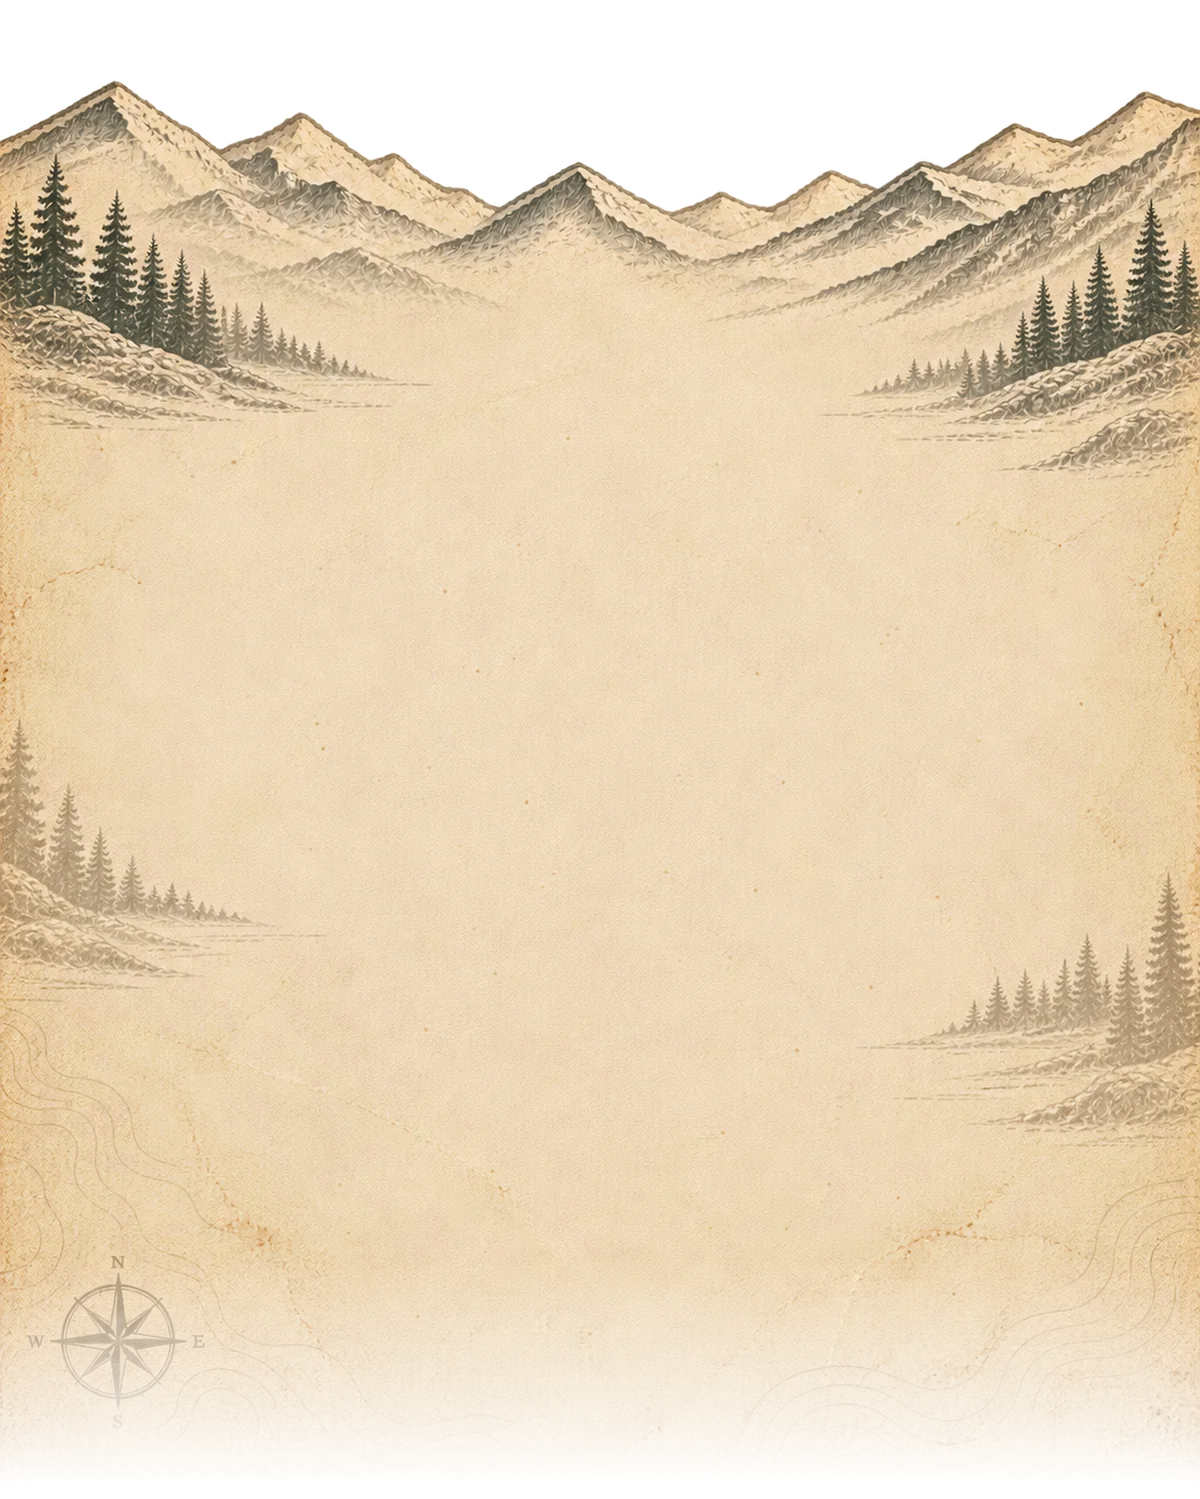
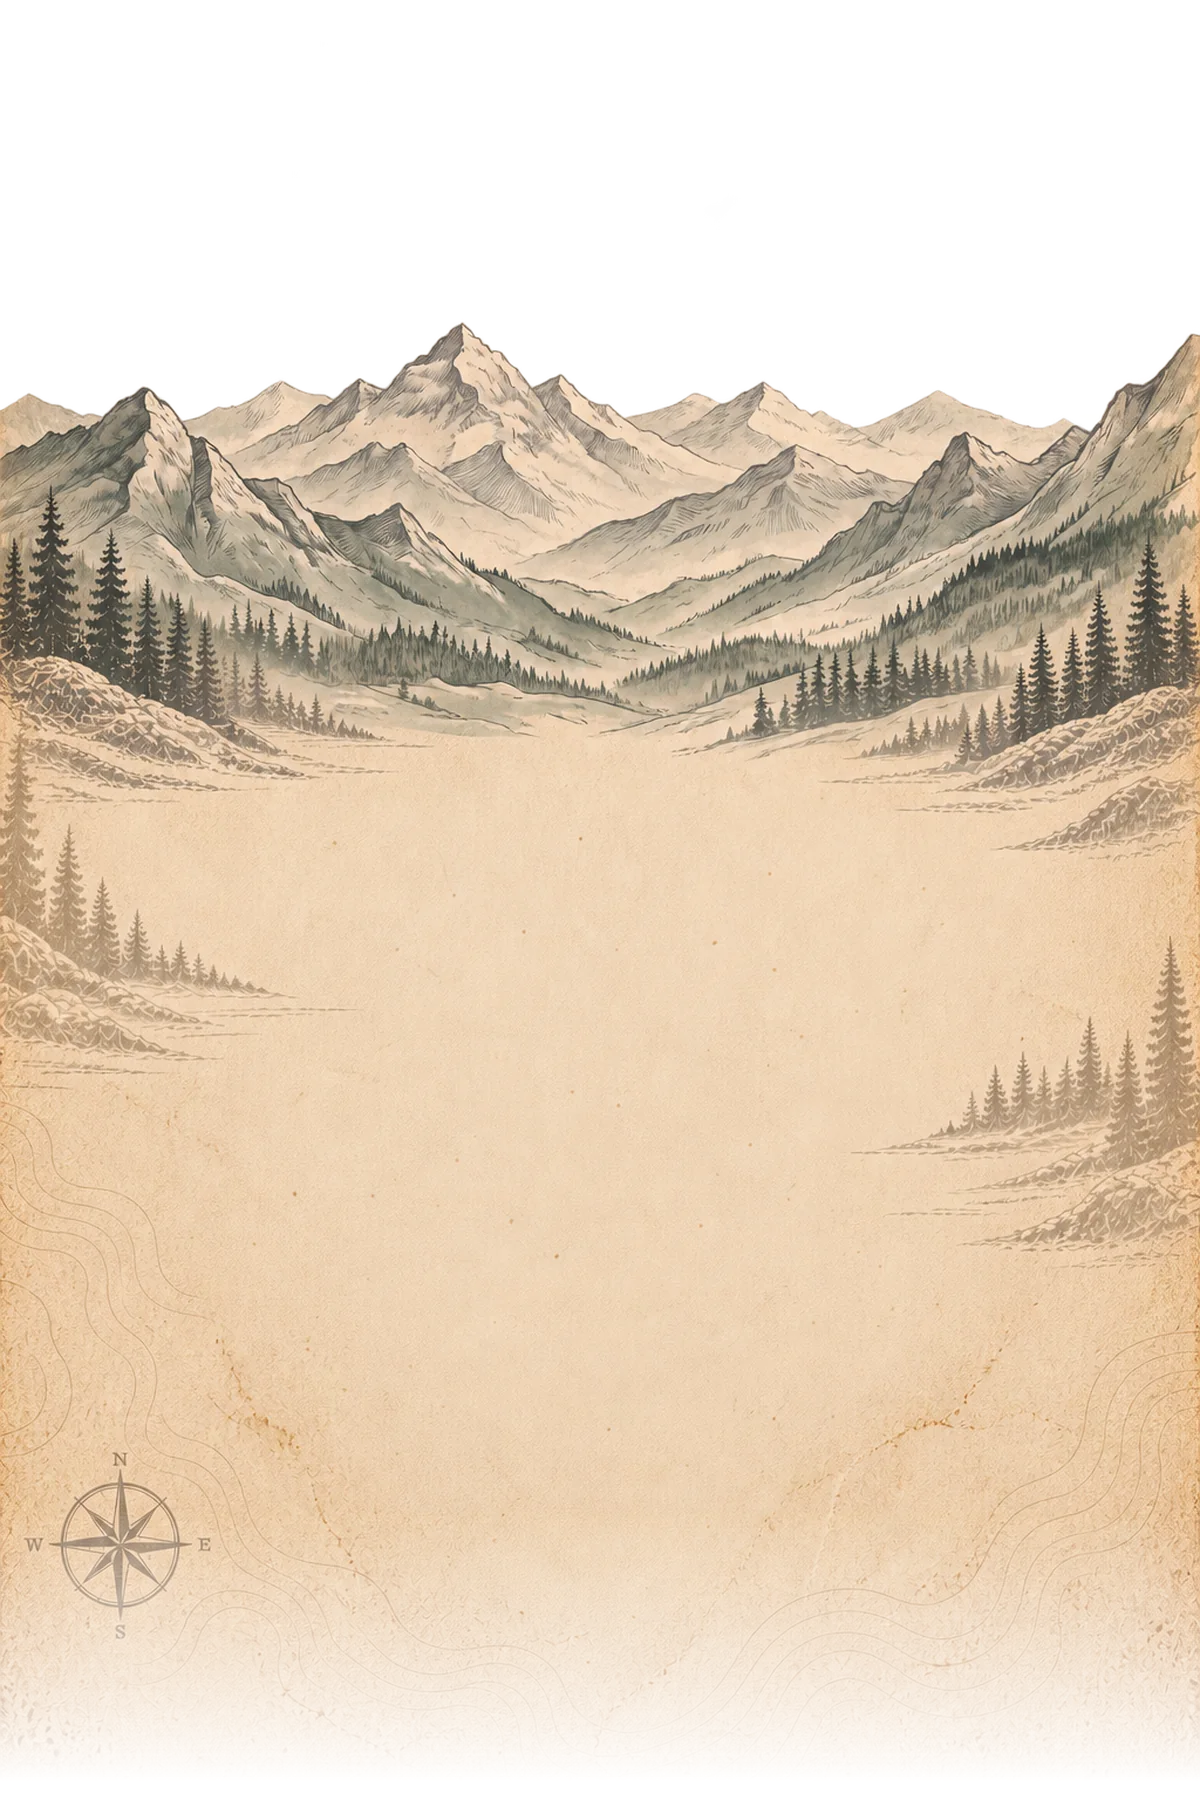
Add files via upload

diff --git a/css/site.css b/css/site.css
@@ -1221,8 +1221,8 @@ body{overscroll-behavior-y:none;background:var(--paper);
    into the rest of the site.
    ============================================================ */
 .ttd{--water:#6C8A93;--water-deep:#4E6B75;--ice:#DFE4E0;--night:#0E1712;
-  --map-paper:#EFD9B8;--map-peaks:clamp(20px,3vw,60px);
-  --map-overlap:calc(12.5vw + var(--map-peaks))}
+  --map-paper:#F0D5B4;--map-peaks:clamp(20px,3vw,60px);
+  --map-overlap:calc(31.5vw + var(--map-peaks))}
 
 /* --- the map sheet ---------------------------------------------------
    The illustrated map page is the background of the first section, and its
@@ -1242,31 +1242,60 @@ body{overscroll-behavior-y:none;background:var(--paper);
    background — the same paper tone — carries on underneath. That way the art
    ends without a seam however tall the section grows. On a phone the section
    runs far taller than the sheet, so most of it is the flat tone. */
+/* On the tan map paper the site's gold drops to about 2:1, so the eyebrow
+   above the heading was barely there — true of the previous artwork as well.
+   A darker gold inside this section only; the rest of the site is untouched. */
+.ttd-mapped{--gold:#7C5414}
+
 .ttd-mapped{position:relative;background:var(--map-paper)}
 .map-sheet{position:absolute;left:0;right:0;top:calc(-1 * var(--map-overlap));
   width:100%;height:auto;z-index:0;pointer-events:none;user-select:none}
 .ttd-mapped > .wrap{position:relative;z-index:1}
 
 /* --- the forest sheet ------------------------------------------------
-   Same idea as the map sheet: the owner's illustrated page, with its
-   treeline rising out of the section to overlap the one above.
+   The second illustrated page, treeline overlapping the map section above.
+   Handled exactly like the map sheet: section background set to the sheet's
+   own paper, the sheet top-anchored over it, its foot faded out in the file
+   so the art dissolves into that tone however tall the section grows.
 
-   It differs in one important way. Its paper is #A19D8A, far darker than
-   the site's, and the type was chosen for cream: body copy drops to 2.4:1
-   on it and the gold accents to 1.08:1, which is invisible. So the sheet is
-   faded out inside the file well before its own foot, the section keeps its
-   cream background, and the content starts below the drawing. The art is the
-   section's head, not a wash behind its text.
+   The previous artwork could not work this way — its paper was #A19D8A and
+   body copy fell to 2.4:1 on it, so the drawing had to be an illustrated
+   head with the content pushed below. This one is #F5E6D0: headings 11:1,
+   body 5.4:1, small text 4.6:1. Only the gold needs help, as on the map
+   sheet, and gets the same darker value.
 
-   Geometry, as with the map sheet: the trees begin 27.9% down a sheet that
-   is 0.93x its own width, so the overlap spends 25.9vw reaching them. The
-   art then runs to roughly 79vw from the sheet's top, which is 53vw below
-   the section's, and that is the padding the heading needs to clear it. */
-.ttd-forested{position:relative;padding-top:53vw}
+   Geometry: trees begin 13.8% down a sheet 1.243x its width, so the overlap
+   spends 17.2vw reaching them. Re-measure if the artwork changes. */
+.ttd-forested{position:relative;background:#F5E6D0;--gold:#7C5414}
 .forest-sheet{position:absolute;left:0;right:0;
-  top:calc(-1 * (25.9vw + var(--map-peaks)));
+  top:calc(-1 * (17.2vw + var(--map-peaks)));
   width:100%;height:auto;z-index:0;pointer-events:none;user-select:none}
 .ttd-forested > .wrap{position:relative;z-index:1}
+
+/* --- the glade sheet -------------------------------------------------
+   Third illustrated page, backing "Go a little farther", its treeline
+   overlapping the forest sheet above.
+
+   This one is dark: its paper is #4E5D4B, so the section is treated like the
+   night band rather than the paper ones — light type on dark ground. The
+   defaults still needed lifting for it. On this green, .sub at 72% opacity
+   reads 4.03:1 and the gold-light eyebrow 3.34:1, both short of the mark at
+   the sizes they are set in, so both are raised here.
+
+   The section is given a height because the artwork is much taller than its
+   copy: without it only the treeline would show and the glade, the river and
+   the deer would sit behind the section below. 74vw shows the drawing down
+   to the open meadow.
+
+   Geometry: trees begin 15.2% down a sheet 1.242x its width, so the overlap
+   spends 18.9vw reaching them. */
+.ttd-glade{position:relative;background:#4E5D4B;min-height:74vw;
+  --gold-light:#EBC97F}
+.ttd-glade .sub{color:rgba(243,238,225,.92)}
+.glade-sheet{position:absolute;left:0;right:0;
+  top:calc(-1 * (18.9vw + var(--map-peaks)));
+  width:100%;height:auto;z-index:0;pointer-events:none;user-select:none}
+.ttd-glade > .wrap{position:relative;z-index:1}
 
 /* --- editorial split: photograph one side, copy the other --- */
 .ttd-split{display:grid;gap:clamp(1.6rem,4vw,3.4rem);align-items:center;

diff --git a/things-to-do.html b/things-to-do.html
@@ -33,7 +33,7 @@
 <link rel="preconnect" href="https://fonts.googleapis.com">
 <link rel="preconnect" href="https://fonts.gstatic.com" crossorigin>
 <link href="https://fonts.googleapis.com/css2?family=Bevan&family=Oswald:wght@400;500;600&family=Lora:ital,wght@0,400;0,500;0,600;1,400&display=swap" rel="stylesheet">
-<link rel="stylesheet" href="css/site.css?v=b74136f4">
+<link rel="stylesheet" href="css/site.css?v=e7c4565b">
 
 <script type="application/ld+json">
 {
@@ -84,7 +84,7 @@
 
 <!-- ============================ AT THE RESORT ============================ -->
 <section class="ttd ttd-mapped">
-  <img class="map-sheet" src="images/map-sheet.webp" width="1200" height="1499"
+  <img class="map-sheet" src="images/map-sheet.webp" width="1200" height="1800"
        alt="" aria-hidden="true" decoding="async">
   <div class="wrap rv">
     <p class="eyebrow">No car required</p>
@@ -151,7 +151,7 @@
 
 <!-- ============================ BIRDS ============================ -->
 <section class="band-2 ttd ttd-forested">
-  <img class="forest-sheet" src="images/forest-sheet.webp" width="1200" height="1116"
+  <img class="forest-sheet" src="images/forest-sheet.webp" width="1200" height="1492"
        alt="" aria-hidden="true" decoding="async">
   <div class="wrap rv">
     <p class="eyebrow">Bring the binoculars</p>
@@ -209,7 +209,9 @@
 </section>
 
 <!-- ============================ THE MAP ============================ -->
-<section class="ttd">
+<section class="ttd ttd-glade on-dark">
+  <img class="glade-sheet" src="images/glade-sheet.webp" width="1200" height="1491"
+       alt="" aria-hidden="true" decoding="async">
   <div class="wrap rv">
     <p class="eyebrow">Beyond the gate</p>
     <h2>Go a little farther.</h2>
@@ -403,6 +405,6 @@
 
 
 
-<script src="js/site.js?v=b74136f4"></script>
+<script src="js/site.js?v=e7c4565b"></script>
 </body>
 </html>

diff --git a/lodge/blue-heron.html b/lodge/blue-heron.html
@@ -33,7 +33,7 @@
 <link rel="preconnect" href="https://fonts.googleapis.com">
 <link rel="preconnect" href="https://fonts.gstatic.com" crossorigin>
 <link href="https://fonts.googleapis.com/css2?family=Bevan&family=Oswald:wght@400;500;600&family=Lora:ital,wght@0,400;0,500;0,600;1,400&display=swap" rel="stylesheet">
-<link rel="stylesheet" href="../css/site.css?v=b74136f4">
+<link rel="stylesheet" href="../css/site.css?v=e7c4565b">
 
 <script type="application/ld+json">
 {
@@ -216,6 +216,6 @@
   <p class="lb-count" id="lb-count"></p>
 </div>
 
-<script src="../js/site.js?v=b74136f4"></script>
+<script src="../js/site.js?v=e7c4565b"></script>
 </body>
 </html>

diff --git a/lodge/camping.html b/lodge/camping.html
@@ -33,7 +33,7 @@
 <link rel="preconnect" href="https://fonts.googleapis.com">
 <link rel="preconnect" href="https://fonts.gstatic.com" crossorigin>
 <link href="https://fonts.googleapis.com/css2?family=Bevan&family=Oswald:wght@400;500;600&family=Lora:ital,wght@0,400;0,500;0,600;1,400&display=swap" rel="stylesheet">
-<link rel="stylesheet" href="../css/site.css?v=b74136f4">
+<link rel="stylesheet" href="../css/site.css?v=e7c4565b">
 
 <script type="application/ld+json">
 {
@@ -198,6 +198,6 @@
   <p class="lb-count" id="lb-count"></p>
 </div>
 
-<script src="../js/site.js?v=b74136f4"></script>
+<script src="../js/site.js?v=e7c4565b"></script>
 </body>
 </html>

diff --git a/lodge/chilcotin.html b/lodge/chilcotin.html
@@ -33,7 +33,7 @@
 <link rel="preconnect" href="https://fonts.googleapis.com">
 <link rel="preconnect" href="https://fonts.gstatic.com" crossorigin>
 <link href="https://fonts.googleapis.com/css2?family=Bevan&family=Oswald:wght@400;500;600&family=Lora:ital,wght@0,400;0,500;0,600;1,400&display=swap" rel="stylesheet">
-<link rel="stylesheet" href="../css/site.css?v=b74136f4">
+<link rel="stylesheet" href="../css/site.css?v=e7c4565b">
 
 <script type="application/ld+json">
 {
@@ -218,6 +218,6 @@
   <p class="lb-count" id="lb-count"></p>
 </div>
 
-<script src="../js/site.js?v=b74136f4"></script>
+<script src="../js/site.js?v=e7c4565b"></script>
 </body>
 </html>

diff --git a/lodge/den-suite.html b/lodge/den-suite.html
@@ -33,7 +33,7 @@
 <link rel="preconnect" href="https://fonts.googleapis.com">
 <link rel="preconnect" href="https://fonts.gstatic.com" crossorigin>
 <link href="https://fonts.googleapis.com/css2?family=Bevan&family=Oswald:wght@400;500;600&family=Lora:ital,wght@0,400;0,500;0,600;1,400&display=swap" rel="stylesheet">
-<link rel="stylesheet" href="../css/site.css?v=b74136f4">
+<link rel="stylesheet" href="../css/site.css?v=e7c4565b">
 
 <script type="application/ld+json">
 {
@@ -211,6 +211,6 @@
   <p class="lb-count" id="lb-count"></p>
 </div>
 
-<script src="../js/site.js?v=b74136f4"></script>
+<script src="../js/site.js?v=e7c4565b"></script>
 </body>
 </html>

diff --git a/lodge/eagle-cabin.html b/lodge/eagle-cabin.html
@@ -33,7 +33,7 @@
 <link rel="preconnect" href="https://fonts.googleapis.com">
 <link rel="preconnect" href="https://fonts.gstatic.com" crossorigin>
 <link href="https://fonts.googleapis.com/css2?family=Bevan&family=Oswald:wght@400;500;600&family=Lora:ital,wght@0,400;0,500;0,600;1,400&display=swap" rel="stylesheet">
-<link rel="stylesheet" href="../css/site.css?v=b74136f4">
+<link rel="stylesheet" href="../css/site.css?v=e7c4565b">
 
 <script type="application/ld+json">
 {
@@ -214,6 +214,6 @@
   <p class="lb-count" id="lb-count"></p>
 </div>
 
-<script src="../js/site.js?v=b74136f4"></script>
+<script src="../js/site.js?v=e7c4565b"></script>
 </body>
 </html>

diff --git a/lodge/green.html b/lodge/green.html
@@ -33,7 +33,7 @@
 <link rel="preconnect" href="https://fonts.googleapis.com">
 <link rel="preconnect" href="https://fonts.gstatic.com" crossorigin>
 <link href="https://fonts.googleapis.com/css2?family=Bevan&family=Oswald:wght@400;500;600&family=Lora:ital,wght@0,400;0,500;0,600;1,400&display=swap" rel="stylesheet">
-<link rel="stylesheet" href="../css/site.css?v=b74136f4">
+<link rel="stylesheet" href="../css/site.css?v=e7c4565b">
 
 <script type="application/ld+json">
 {
@@ -216,6 +216,6 @@
   <p class="lb-count" id="lb-count"></p>
 </div>
 
-<script src="../js/site.js?v=b74136f4"></script>
+<script src="../js/site.js?v=e7c4565b"></script>
 </body>
 </html>

diff --git a/lodge/heritage-1.html b/lodge/heritage-1.html
@@ -33,7 +33,7 @@
 <link rel="preconnect" href="https://fonts.googleapis.com">
 <link rel="preconnect" href="https://fonts.gstatic.com" crossorigin>
 <link href="https://fonts.googleapis.com/css2?family=Bevan&family=Oswald:wght@400;500;600&family=Lora:ital,wght@0,400;0,500;0,600;1,400&display=swap" rel="stylesheet">
-<link rel="stylesheet" href="../css/site.css?v=b74136f4">
+<link rel="stylesheet" href="../css/site.css?v=e7c4565b">
 
 <script type="application/ld+json">
 {
@@ -241,6 +241,6 @@
   <p class="lb-count" id="lb-count"></p>
 </div>
 
-<script src="../js/site.js?v=b74136f4"></script>
+<script src="../js/site.js?v=e7c4565b"></script>
 </body>
 </html>

diff --git a/lodge/heritage-2.html b/lodge/heritage-2.html
@@ -33,7 +33,7 @@
 <link rel="preconnect" href="https://fonts.googleapis.com">
 <link rel="preconnect" href="https://fonts.gstatic.com" crossorigin>
 <link href="https://fonts.googleapis.com/css2?family=Bevan&family=Oswald:wght@400;500;600&family=Lora:ital,wght@0,400;0,500;0,600;1,400&display=swap" rel="stylesheet">
-<link rel="stylesheet" href="../css/site.css?v=b74136f4">
+<link rel="stylesheet" href="../css/site.css?v=e7c4565b">
 
 <script type="application/ld+json">
 {
@@ -231,6 +231,6 @@
   <p class="lb-count" id="lb-count"></p>
 </div>
 
-<script src="../js/site.js?v=b74136f4"></script>
+<script src="../js/site.js?v=e7c4565b"></script>
 </body>
 </html>

diff --git a/lodge/pelican.html b/lodge/pelican.html
@@ -33,7 +33,7 @@
 <link rel="preconnect" href="https://fonts.googleapis.com">
 <link rel="preconnect" href="https://fonts.gstatic.com" crossorigin>
 <link href="https://fonts.googleapis.com/css2?family=Bevan&family=Oswald:wght@400;500;600&family=Lora:ital,wght@0,400;0,500;0,600;1,400&display=swap" rel="stylesheet">
-<link rel="stylesheet" href="../css/site.css?v=b74136f4">
+<link rel="stylesheet" href="../css/site.css?v=e7c4565b">
 
 <script type="application/ld+json">
 {
@@ -206,6 +206,6 @@
   <p class="lb-count" id="lb-count"></p>
 </div>
 
-<script src="../js/site.js?v=b74136f4"></script>
+<script src="../js/site.js?v=e7c4565b"></script>
 </body>
 </html>

diff --git a/lodge/pine.html b/lodge/pine.html
@@ -33,7 +33,7 @@
 <link rel="preconnect" href="https://fonts.googleapis.com">
 <link rel="preconnect" href="https://fonts.gstatic.com" crossorigin>
 <link href="https://fonts.googleapis.com/css2?family=Bevan&family=Oswald:wght@400;500;600&family=Lora:ital,wght@0,400;0,500;0,600;1,400&display=swap" rel="stylesheet">
-<link rel="stylesheet" href="../css/site.css?v=b74136f4">
+<link rel="stylesheet" href="../css/site.css?v=e7c4565b">
 
 <script type="application/ld+json">
 {
@@ -204,6 +204,6 @@
   <p class="lb-count" id="lb-count"></p>
 </div>
 
-<script src="../js/site.js?v=b74136f4"></script>
+<script src="../js/site.js?v=e7c4565b"></script>
 </body>
 </html>
